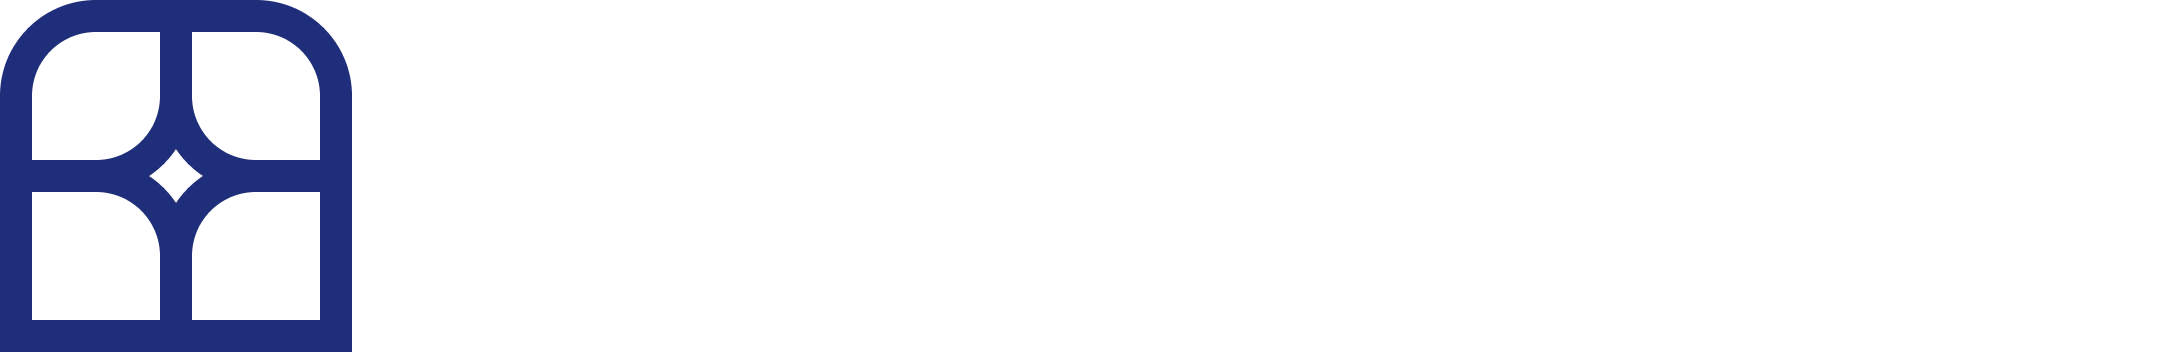
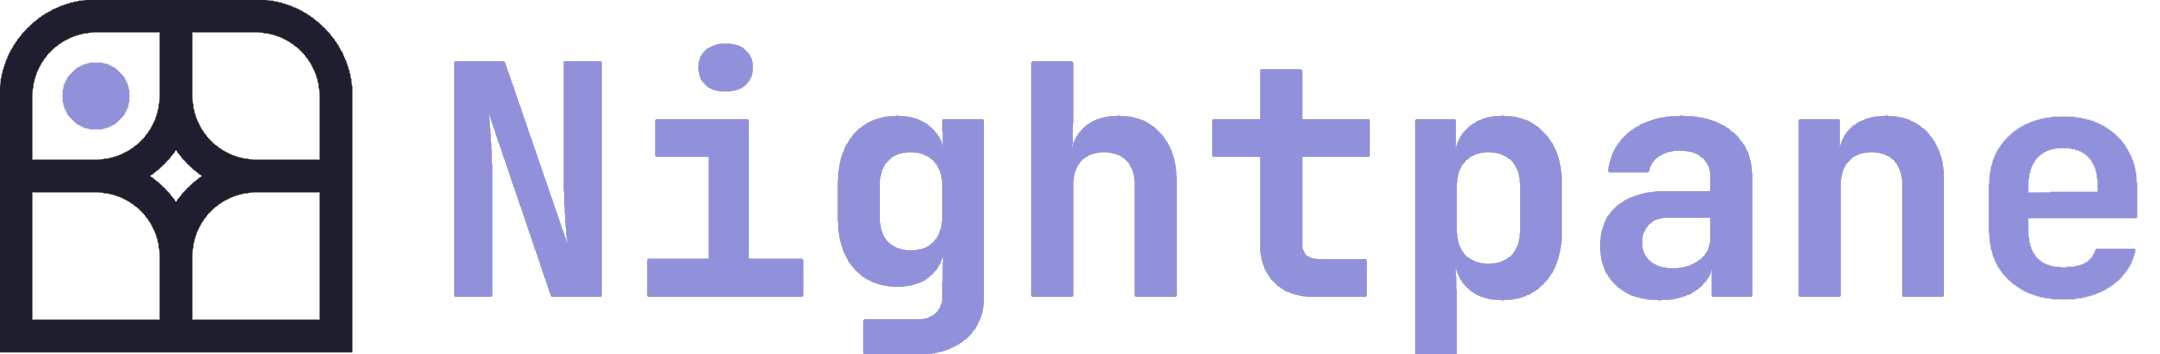
full catpuccian transformation

diff --git a/src/kernel/src/kshell/kterm.c b/src/kernel/src/kshell/kterm.c
@@ -14,17 +14,17 @@ int j = 0;
 void term_print(char* status) {
     static bool init = false;
     if(!init){
-        krect(0, 40, framebuffer->height - 40, framebuffer->width, 0x24273a);
+        krect(0, 40, framebuffer->height - 40, framebuffer->width, 0x1e1e2e);
         init = true;
     }               
     
-    kputs(1 + j, 20 * i, status, 1, 0xcad3f5);
+    kputs(1 + j, 20 * i, status, 1, 0xcdd6f4);
     j += 5;
     i++;
     j = 0;
    
     if ((20 * i) >= framebuffer->height) {
-        krect(0, 40, framebuffer->height - 40, framebuffer->width, 0x24273a);
+        krect(0, 40, framebuffer->height - 40, framebuffer->width, 0x1e1e2e);
         i = 3;
     } 
 }
@@ -32,22 +32,22 @@ void term_print(char* status) {
 void term_puts(char* status) {
     static bool init = false;
     if(!init){
-        krect(0, 40, framebuffer->height - 40, framebuffer->width, 0x24273a);
+        krect(0, 40, framebuffer->height - 40, framebuffer->width, 0x1e1e2e);
         init = true;
     }               
     
-    kputs(1 + j, 20 * i, status, 1, 0xcad3f5);
+    kputs(1 + j, 20 * i, status, 1, 0xcdd6f4);
     j += 10;
     
    
     if ((20 * i) >= framebuffer->height) {
-        krect(0, 40, framebuffer->height - 40, framebuffer->width, 0x24273a);
+        krect(0, 40, framebuffer->height - 40, framebuffer->width, 0x1e1e2e);
         i = 3;
     } 
 }
 
 void term_clear(){
-    krect(0, 40, framebuffer->height - 40, framebuffer->width, 0x24273a);
+    krect(0, 40, framebuffer->height - 40, framebuffer->width, 0x1e1e2e);
     i = 3;
 }
 
@@ -73,7 +73,7 @@ static inline char* array_adder(size_t size) {
             array[index] = '\0';
             index--;
             if(j > 0) j-=10;
-            krect(1 + j, 20 * i, 10, 10, 0x24273a);
+            krect(1 + j, 20 * i, 10, 10, 0x1e1e2e);
             continue;
         }
         
@@ -94,7 +94,7 @@ static inline char* array_adder(size_t size) {
         temp[0] = character;
         temp[1] = '\0';  
         index++;
-        kputs(1 + j, 20 * i, temp, 1, 0xcad3f5);
+        kputs(1 + j, 20 * i, temp, 1, 0xcdd6f4);
         if (j >= framebuffer->width) {
             
             i++;
@@ -116,14 +116,14 @@ static inline char* array_adder(size_t size) {
 char* term_get(size_t size) {
     static bool init = false;
     if(!init){
-        krect(0, 40, framebuffer->height - 40, framebuffer->width, 0x24273a);
+        krect(0, 40, framebuffer->height - 40, framebuffer->width, 0x1e1e2e);
         init = true;
     }               
     if ((10 + j) >= framebuffer->width) {
         i++;
         j = 0;
     }
-    kputs(1 + j, 20 * i, ">   ", 1, 0xcad3f5);
+    kputs(1 + j, 20 * i, ">   ", 1, 0xcdd6f4);
     j += 10;
     
     //j += 5;
@@ -138,7 +138,7 @@ char* term_get(size_t size) {
     //j = 0;
     i++;
     if ((20 * i) >= framebuffer->height) {
-        krect(0, 40, framebuffer->height - 40, framebuffer->width, 0x24273a);
+        krect(0, 40, framebuffer->height - 40, framebuffer->width, 0x1e1e2e);
         i = 3;
     } 
     term_print("");

diff --git a/src/kernel/src/nposkrnl/nposkrnl.c b/src/kernel/src/nposkrnl/nposkrnl.c
@@ -1,9 +1,8 @@
 #include "kdraw.h"
 #include "kfont.h"
-#include "../kshell/kterm.h"
 #include "../kshell/kshell.h"
 #include "../HAL/hal.h"
-#include "../brainfuck/bf.h"
+#include "../drivers/keyboard/keyboard.h"
 #include "malloc.h"
 #include "rndnumgen/rndnumgen.h"
 #include "tools/tools.h"
@@ -68,11 +67,11 @@ void rainbow_kernel_suicide(char* error){
 
 void kernel_suicide(char* error){
     
-    kbackground(0x24273a);
-    kputs(700, 600, ":(", 10, 0xcad3f5);
-    kputs(10, 10, "Nightpane has ran into an issue and has been shutdown to prevent damage", 1, 0xcad3f5);
-    kputs(10, 20, "please contact zvqle with these error code", 1, 0xcad3f5);
-    kputs(10, 60, error, 1, 0xcad3f5);
+    kbackground(0x1e1e2e);
+    kputs(700, 600, ":(", 10, 0xcdd6f4);
+    kputs(10, 10, "Nightpane has ran into an issue and has been shutdown to prevent damage", 1, 0xcdd6f4);
+    kputs(10, 20, "please contact zvqle with these error code", 1, 0xcdd6f4);
+    kputs(10, 60, error, 1, 0xcdd6f4);
     cli();
     halt();
 }
@@ -81,6 +80,8 @@ bool NP_SUCCESS(NPSTATUS status){
     if(status == 0xc000000) return true;
     else return false;
 }
+
+//4E4E75
 
 
 
@@ -102,21 +103,22 @@ void _entry(void) {
     
     framebuffer = framebuffer_request.response->framebuffers[0];
     kheap_init();
+    keyboard_install();
     //NPSTATUS status = serial_install();
 //     if(!NP_SUCCESS(status)){
 //         kernel_suicide("Failed Installing Serial Driver");
 //     }
 //    // write_serial('a');
-    kbackground(0x626880);
+    kbackground(0x585b70);
     kputs(0, 0, os_version(), 1, 0x99ffcc);
     kputs(0, 0, "\nCopyright \"zvqle\"", 1, 0x99ffcc);
     
-    term_print("\n");
+    //term_print("\n\nh");
     //bf_interperter("waaaaaaaaaaaaaaaaaaaah");
     //kernel_suicide("error");
     while(1){
         if(!NP_SUCCESS(GLOBAL_STATUS)){
-            rainbow_kernel_suicide("GLOBAL STATUS INVALID");
+            kernel_suicide("GLOBAL STATUS INVALID");
         } 
         GLOBAL_STATUS = shell_start();
         continue;
